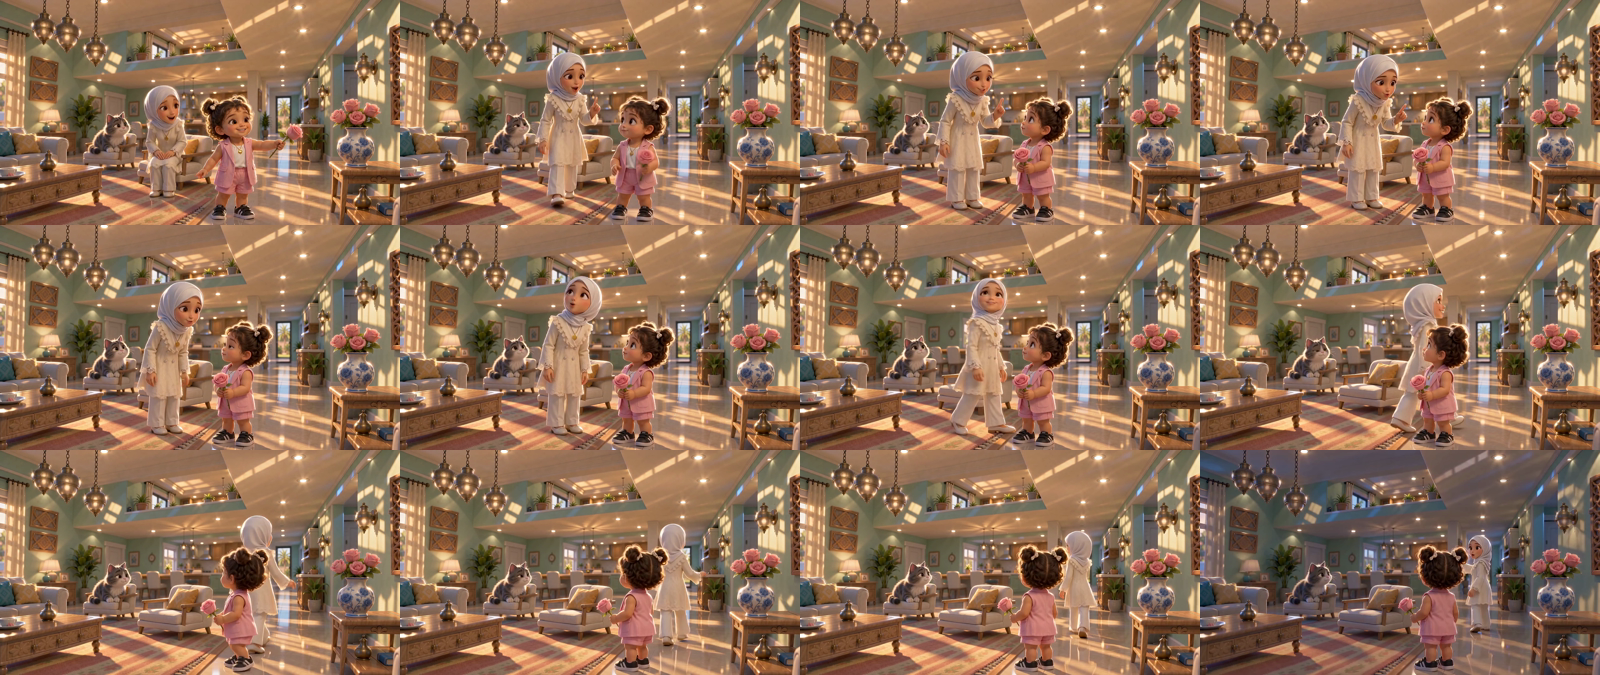
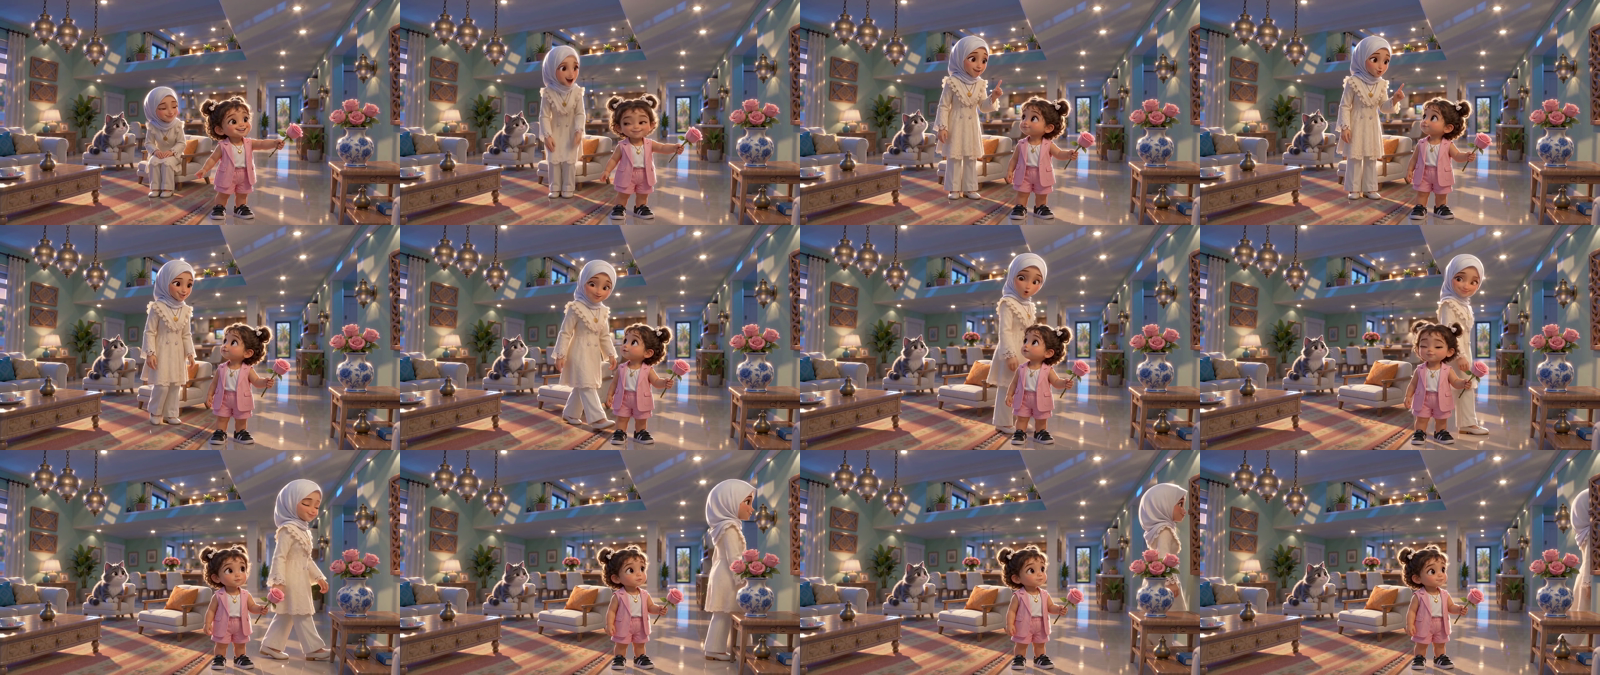
EP02: cancel lights-off idea, restore approved shot 26
Claude-Session: https://claude.ai/code/session_01NSE6jUWHKYKwF2y7sgDSPa

diff --git a/little-wonder/episodes/ep02-grandmas-vase/SHOT_LOG.md b/little-wonder/episodes/ep02-grandmas-vase/SHOT_LOG.md
@@ -56,7 +56,7 @@
 
 | 25 (v1) | `shots/shot25.mp4` | `709052d4-337f-4e4f-bc7f-1bf99a46fd74` | ✅ معتمدة (ميثم) — رجعت بعد فشل تسكير الليتات بالفيديو 3 مرات | 7 ث؛ زوزو تقوم وتقول جملتها وتطلع يمين بدون ما تلمس الفازة؛ حور بروحها (الورد اللي على طاولة الطعام بالخلفية من ديكور الصالة الأصلي) |
 
-| 26 (v1) | `shots/shot26_replaced_lights_on.mp4` | `26dcb6ea-c064-4719-8ea3-664f37f9ce37` | 🔁 انستبدلت (تنعاد بعد 25 الجديدة، الليتات مسكرة) | حور بروحها: "Me! I do it! I'm big!" وتمشي خطوة للفازة؛ ميشو يراقب — **نهاية الفصل 2** |
+| 26 (v1) | `shots/shot26.mp4` | `26dcb6ea-c064-4719-8ea3-664f37f9ce37` | ✅ معتمدة (ميثم) — رجعت بعد إلغاء فكرة إطفاء الليتات (فرق البداية 5.58) | حور بروحها: "Me! I do it! I'm big!" وتمشي خطوة للفازة؛ ميشو يراقب — **نهاية الفصل 2** |
 
 | 25 (v2) | `shots/shot25_rejected_lights_still_on.mp4` | `ba4b0c97-c0ec-4be5-90d0-ed814cc1240f` | ❌ رفض ذاتي | الليتات ما انطفت + زوزو لمست الورد + فازة ثانية بطرف الكادر |
 
@@ -64,17 +64,17 @@
 
 | 25 (v4) | `shots/shot25_rejected_v4_lights_on.mp4` | `485fe57d-97c9-44fe-82ee-825d3c5b7ca9` | ❌ رفض ذاتي | مع مرجع الإضاءة: أول فريم تغيّر (فرق 15.7) + الليتات ما انطفت، الصالة صارت زرقا بآخر اللقطة |
 
-| مرجع | `references/loc_living_room_lights_off_v2.png` | `56c30e99-6ae8-4864-994d-34bb6544ecd1` | ✅ معتمدة (ميثم) | آخر فريم 25 والليتات مطفية — بداية 26 وكل اللي بعدها |
+| مرجع | `references/loc_living_room_lights_off_v2.png` | `56c30e99-6ae8-4864-994d-34bb6544ecd1` | 🚫 ما تنستخدم (الفكرة انلغت) | آخر فريم 25 والليتات مطفية — بداية 26 وكل اللي بعدها |
 
-| مرجع (فاضي) | `references/loc_living_room_lights_off_empty.png` | `8050aafb-5da7-4072-ac84-601e2d91a94a` | ✅ معتمدة (ميثم) | نفس مرجع v2 بدون حور وميشو، الليتات مطفية — نضيف الشخصيات عليها بعدين |
+| مرجع (فاضي) | `references/loc_living_room_lights_off_empty.png` | `8050aafb-5da7-4072-ac84-601e2d91a94a` | 🚫 ما تنستخدم (الفكرة انلغت) | نفس مرجع v2 بدون حور وميشو، الليتات مطفية — نضيف الشخصيات عليها بعدين |
 
-| مرجع v3 | `references/loc_living_room_lights_off_v3.png` | `344ed148-f4fc-4dac-be60-aa0eee51ddc5` | ✅ معتمدة (ميثم) | الصالة الفاضية + حور وميشو بنفس وقفة آخر فريم 25b، الليتات مطفية |
+| مرجع v3 | `references/loc_living_room_lights_off_v3.png` | `344ed148-f4fc-4dac-be60-aa0eee51ddc5` | 🚫 ما تنستخدم (الفكرة انلغت) | الصالة الفاضية + حور وميشو بنفس وقفة آخر فريم 25b، الليتات مطفية |
 
-| 25b | `shots/shot25b.mp4` | `70649d00-f34e-455b-b23c-d96df6668d98` | ⏳ بانتظار الاعتماد | صوت زوزو من بعيد "I'll turn off the lights!"؛ حور تطالع فوق — بعده ذوبان لصورة الليتات المطفية (معاينة: qc/lights_off_transition_preview.mp4) |
+| 25b | `shots/shot25b.mp4` | `70649d00-f34e-455b-b23c-d96df6668d98` | 🚫 ملغية (ميثم ألغى فكرة إطفاء الليتات) | صوت زوزو من بعيد "I'll turn off the lights!"؛ حور تطالع فوق — بعده ذوبان لصورة الليتات المطفية (معاينة: qc/lights_off_transition_preview.mp4) |
 
 ### ملاحظات مونتاج قادمة
 - **اللقطة 17:** تتولد بسرعة عادية وتتبطّأ بالمونتاج (لحظة الكورة جنب الفازة).
 
 **⛔ 3 أكتوبر 2026: ميثم أوقف التوليد بعد لقطة 26.** ✅ بعدها اعتمد 16–26 وحدة وحدة، وطلب إعادة 25 (زوزو تسكر الليتات) — لقطة لقطة بموافقته.
 
-- **بعد 25b:** صوت "تك" مفتاح + ذوبان 0.5 ث من آخر فريم 25b إلى `loc_living_room_lights_off_v2.png` (الليتات تطفى بالمونتاج).
+- **إطفاء الليتات انلغى (قرار ميثم):** الإضاءة تبقى طبيعية (ليتات + شمس) لكل الحلقة. بالمونتاج: تصحيح ألوان خفيف موحد على كل لقطات الصالة يهدّي لمعة الليتات وانعكاس الشمس على الأرضية بنفس الدرجة.

diff --git a/little-wonder/PRODUCTION_RULES.md b/little-wonder/PRODUCTION_RULES.md
@@ -60,7 +60,7 @@
    - **الفازة وحدة بس بالبيت** — نكتب "There is only ONE vase in the whole house".
    - **تيتة ما تغمز أبداً** (الـ Character Bible).
    - **الأغراض (الكورة وغيرها) من صورها المرجعية**، وحجمها ينكتب بالأمر.
-   - **الإضاءة بالحلقة 2 من لقطة 25 وطالع (قرار ميثم):** زوزو سكرت الليتات — كل أمر يكتب "ALL ceiling lights, spotlights, pendant lamps and wall lamps are OFF; the only light is warm golden afternoon sunlight from the windows". أي لقطة ترجع فيها الليتات تنرفض. **مرجع الإضاءة المعتمد:** `references/loc_living_room_lights_off.png` (Higgsfield job `8c630228-dc6f-476b-94e9-04d18bd927e7`) — ينرفق بكل لقطة من 25 وطالع.
+   - **الإضاءة بالحلقة 2 (قرار ميثم):** فكرة إطفاء الليتات انلغت — موديل الفيديو ما يقدر يطفي الليتات بنص اللقطة، وأي تغيير إضاءة بنص الحلقة يبين. الإضاءة تبقى مثل ما هي (ليتات + شمس)، وكل لقطة تبدأ من آخر فريم اللي قبلها. تخفيف اللمعة يصير بالمونتاج بتصحيح ألوان موحد. أي تغيير وقت (غروب/ليل) يكون بين الفصول، مو بنصها.
 
 ---
 

diff --git a/little-wonder/episodes/ep02-grandmas-vase/SCRIPT.md b/little-wonder/episodes/ep02-grandmas-vase/SCRIPT.md
@@ -84,7 +84,6 @@
 | 23 | زوزو (يسار) + حور (وسط) | زوزو تقعد على الكنبة وتبتسم لحور | **ZOOZOO:** "So pretty, Hoor! Grandma will love it." *(حلوة وايد يا حور! تيتة بتحبها)* | 5 |
 | 24 | حور | حور تطالع الفازة على الطاولة الجانبية، وتفكر | **HOOR:** "Flower… in the vase!" *(الوردة… بالفازة!)* | 5 |
 | 25 | زوزو | زوزو تقوم وتقول جملتها لحور وتطلع للمطبخ (الليتات شغالة) | **ZOOZOO:** "I'll help Grandma with the juice. Wait for us, Hoor!" *(بساعد تيتة بالعصير. انطرينا يا حور!)* | 7 |
-| 25b | حور + ميشو (صوت زوزو من بعيد) | حور بروحها، صوت زوزو من الممر — ثم بالمونتاج: "تك" + الليتات تطفى (ذوبان لصورة المرجع) | **ZOOZOO (من بعيد):** "The sun is so bright… I'll turn off the lights!" *(الشمس قوية… بطفي الليتات!)* | 5 |
 | 26 | حور | حور بروحها بالصالة، تطالع الوردة وبعدين الفازة، وتبتسم بعزيمة | **HOOR:** "Me! I do it! I'm big!" *(أنا! أنا أسويها! أنا كبيرة!)* | 5 |
 
 ### الفصل ٣ — الكسر والإخفاء (لقطات 27–40)
